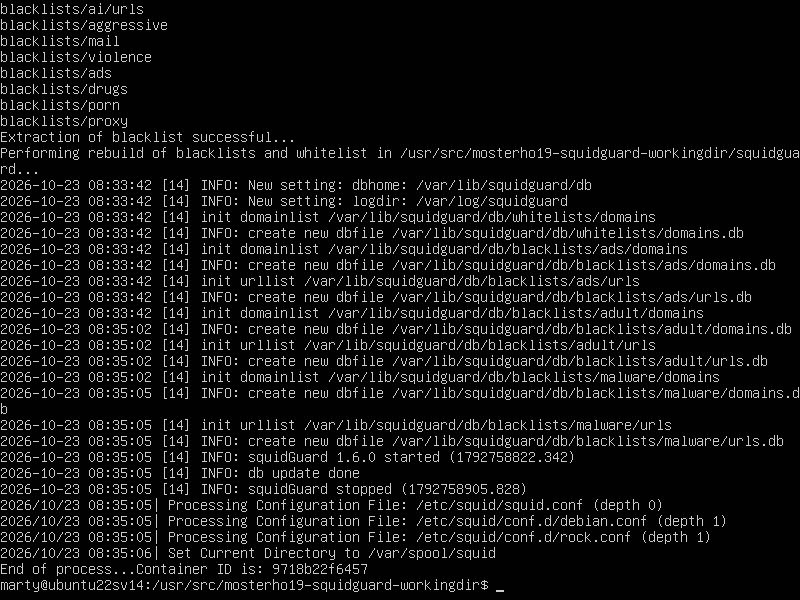
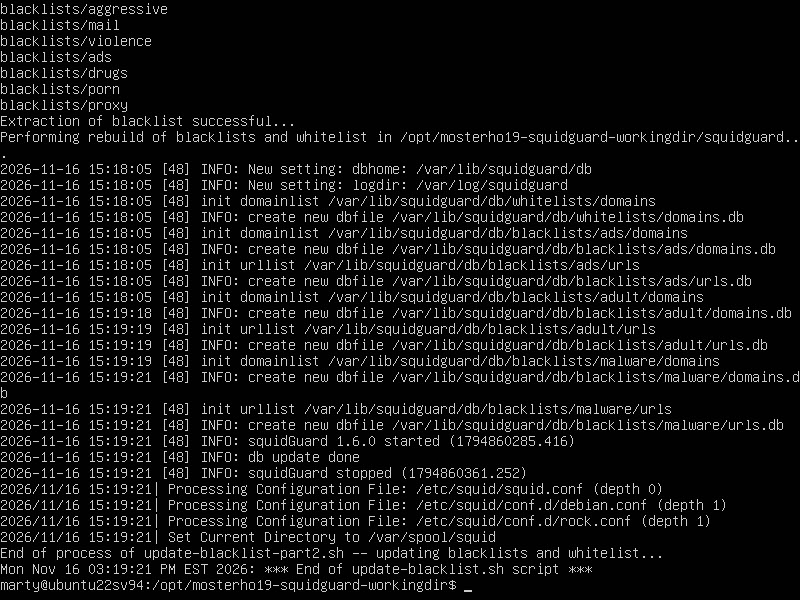
Update README and pics

Changed region(s): [[0.0, 0.18, 1.0, 0.99], [0.0938, 0.0, 0.4375, 0.3], [0.1562, 0.33, 0.2188, 0.45]]

diff --git a/README.md b/README.md
@@ -10,7 +10,7 @@
 <ol>
 <li>Please don't perform a Docker pull directly from a terminal session or the Docker website, it won't work as a standalone. Follow this document and use the bash files from the github repository to help build the application for you. 
 <li>UPDATE: 2 Nov 2026 Removed all references to using a home folder to run the server scripts, but still referenced when doing certain downloads.
-<li>UPDATE: 3 Nov 2026  /usr/src may not the best place to put scripts. All references now from /usr/src to /opt.
+<li>UPDATE: 3 Nov 2026  /usr/src may not the correct place to put scripts. All references changed from /usr/src to /opt.
 <li>UPDATE: 4 Nov 2026 Changes in bash files to perform a simple git download on the Ubuntu server. References to downloading a zip file from github.com website using the green "code" button were removed.
 <li>UPDATE: 10 Nov 2026 Automatically restart the containers after system reboot using docker compose and yaml file. Updates made to several bash files to use docker compose.
 <li>If you don't see any pictures in the Docker repository, try the README in the Github repository link.
@@ -65,7 +65,9 @@ sudo cp -r mosterho19-squidguard/mosterho19-squidguard-workingdir/ /opt/ &&
 cd /opt/mosterho19-squidguard-workingdir
 `
 
-<li>This will create the mosterho19-squidguard folder with user "root" as the owner. The git clone contains the entire repository, including this READEME and .jpg files. The squid and squidguard folder structures and bash files are within folder "mosterho19-squidguard-workingdir". This does not include the squidguard db binary files that contain the blacklists.tar.gz; these will be built later.
+<li>This will create the mosterho19-squidguard folder with user "root" as the owner. The git clone contains the entire repository, including this READEME and .jpg files. The squid and squidguard folder structures and bash files are within folder "mosterho19-squidguard-workingdir". 
+<li>This will copy just the "mosterho19-squidguard-workingdir" folder to the "/opt" folder, and then change the working directory to that.
+<li>This does not include the squidguard db binary files that contain the blacklists.tar.gz; these will be built later.
 
 <li>Run the following:
 
@@ -80,10 +82,11 @@ The results should look similar to this (as documentation is modified, the numbe
 ## Make Changes to .conf Files
 <ol>
 <li>You <mark>may</mark> need to make changes to squid.conf and squidGuard.conf, and <mark>should</mark> change the email address in the update-blacklist.sh file.
+<li>When making changes, make sure you are in the /opt/mosterho19-squidguard-workingdir and not in your home directory mosterho19-squidguard-workingdir.
 <li>The names and purposes of some of the important objects in the mosterho19-squidguard-workingdir directory are:
 	<ul> 
 	<li>file "squid.conf" -- there are over 9000 lines in the original squid.conf file; this file contains about 100 lines. All of the uncommented lines with some of the important comments were included. This contains the minimum required to get squidguard up and running. You may need to tweak this file to get your container up and running 
-	<li>(e.g., even though it is commented out, I assume you don't need the dns_nameservers tag at the very end; I just happen to use an Intranet). 
+	<li>(Even though it is commented out, I assume you don't need the dns_nameservers tag at the very end; I just happen to use an Intranet). 
 	<li>file "squidGuard.conf" -- Currently setup to include all localnet IP addresses, a blacklist, and whitelist. The blacklists currently include ads, adult, and malware. You may need to change the IP address of the redirect statement to match the IP of the Ubuntu server; however using Docker's IP 172.17.0.1 works for me. 
 	<li>file "update-blacklist.sh" -- consider changing the email address used as the password in the "wget" command. This FTP site allows the user to be "anonymous", so please follow netiquette and use a legitimate email address as the password.
 	<li>directory "squidguard" -- The blacklist and whitelist files will be setup in this directory. 
@@ -99,7 +102,9 @@ The results should look similar to this (as documentation is modified, the numbe
 
 `sudo bash install-step-one.sh`
 <li>This will pull Docker images mosterho19/squidguard and httpd and create the corresponding containers. It will also create a file "mosterho19-docker-path.env".
-<li>The script will show the results of creating the containers (sudo docker ps -a). It will also show that the containers' status is created, not running.
+<li>The script will show the results of creating the containers (sudo docker ps -a). It will also show that the containers' status is "created".
+
+![Pic of successful step one](Documentation/Docker_install_stepone_successful.jpg)
 </ol>
 
 ## Setup Docker folders and files
@@ -151,7 +156,7 @@ Confirm you are in the running container by checking your login.
 
 ![Successfully running squidguard](Documentation/Docker_squidguard_running_ok.jpg)
 
-<li>Run any other Linux commands within the Docker session you wish (e.g., top, etc.)
+<li>Run any other Linux commands within the Docker session you wish (e.g., top)
 </ol>
 
 ## Open a browser and try it ;-) 
@@ -167,11 +172,23 @@ Confirm you are in the running container by checking your login.
 <ol>
 <li>It's a good idea to periodically update the blacklists. 
 <ul>
-<li>To update the blacklist, simply set your directory to "/opt/mosterho19-squidguard-workingdir" and run the following:
+<li>To manually retrieve the latest blacklist, set your directory to "/opt/mosterho19-squidguard-workingdir" and run the following:
 
 `sudo bash update-blacklist.sh`
 </ul>
-<li>Please see the "Additional Helpful Scripts" section. There are a couple methods to create a nightly job to run "build_cron_job.txt".
+<li>Please see the "Additional Helpful Scripts" section. There are a couple methods to create a nightly job in the "build_cron_job.txt".
+<li>If you wish to add (or remove) entire categories, you can change the "squidGuard.conf" file.
+<ul>
+<li>Make a copy of the squidGuard.conf file (e.g., squidGuard-keep.conf)
+<li>Run the following:
+
+`sudo nano squidGuard.conf`
+<li>Copy and paste any destination class (e.g., blacklist or malware). Rename the new destination class's name and folder structure for the new class.
+<li>Change the ACL section of the foo-clients/pass line. Don't forget to place a "!" in front of the new blacklisted destination class name.
+<li>Run the following:
+
+`bash update-blacklist-part2.sh`
+</ul>
 <li>If you wish to udpate the whitelist, perform the following:
 <ul>
 <li>Set your directory to /opt/mosterho19-squidguard-workingdir
